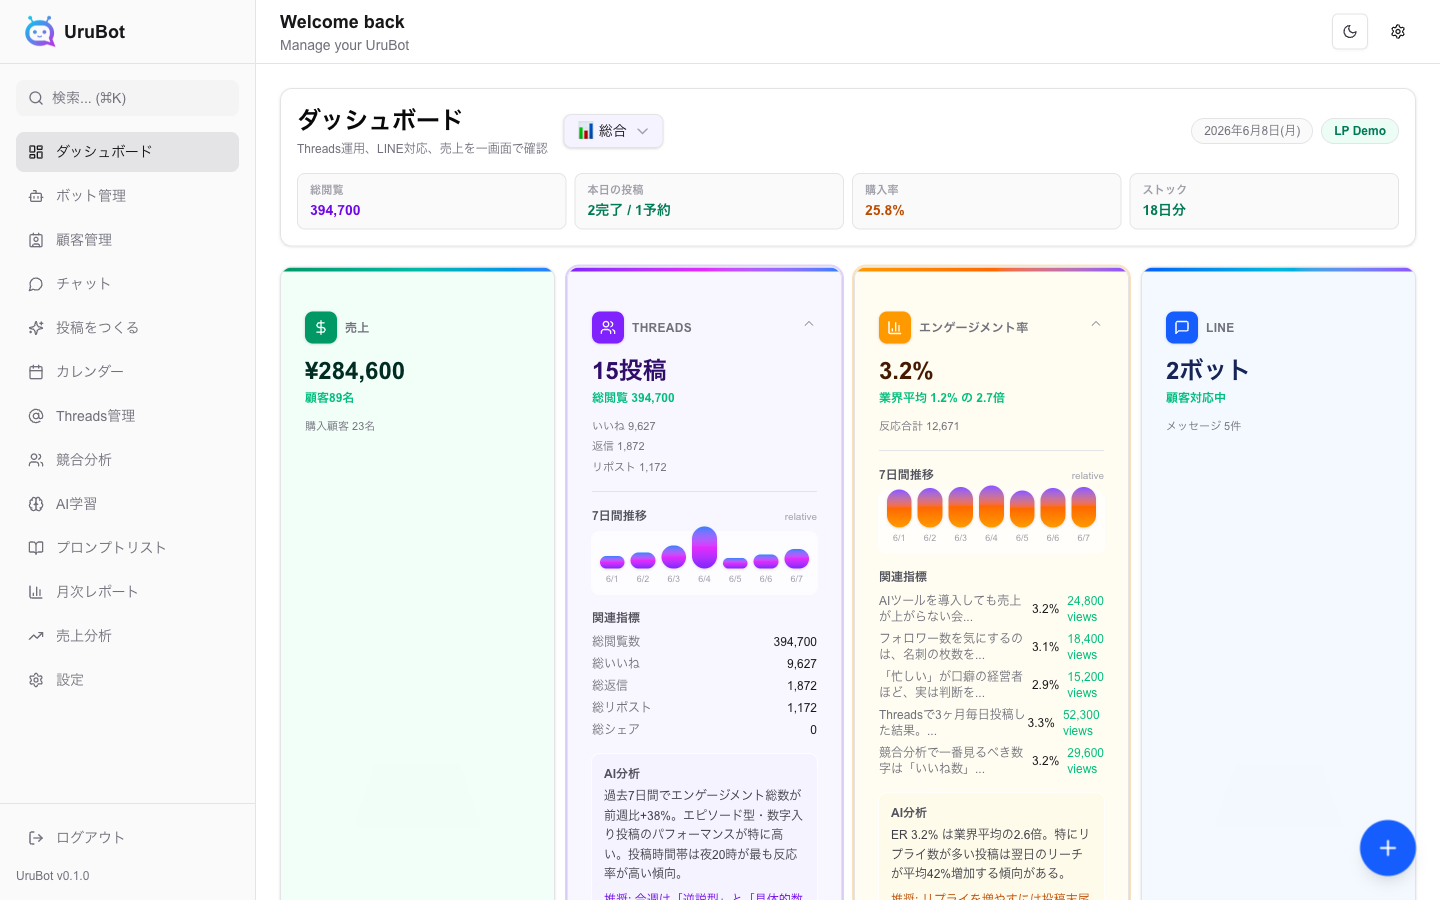
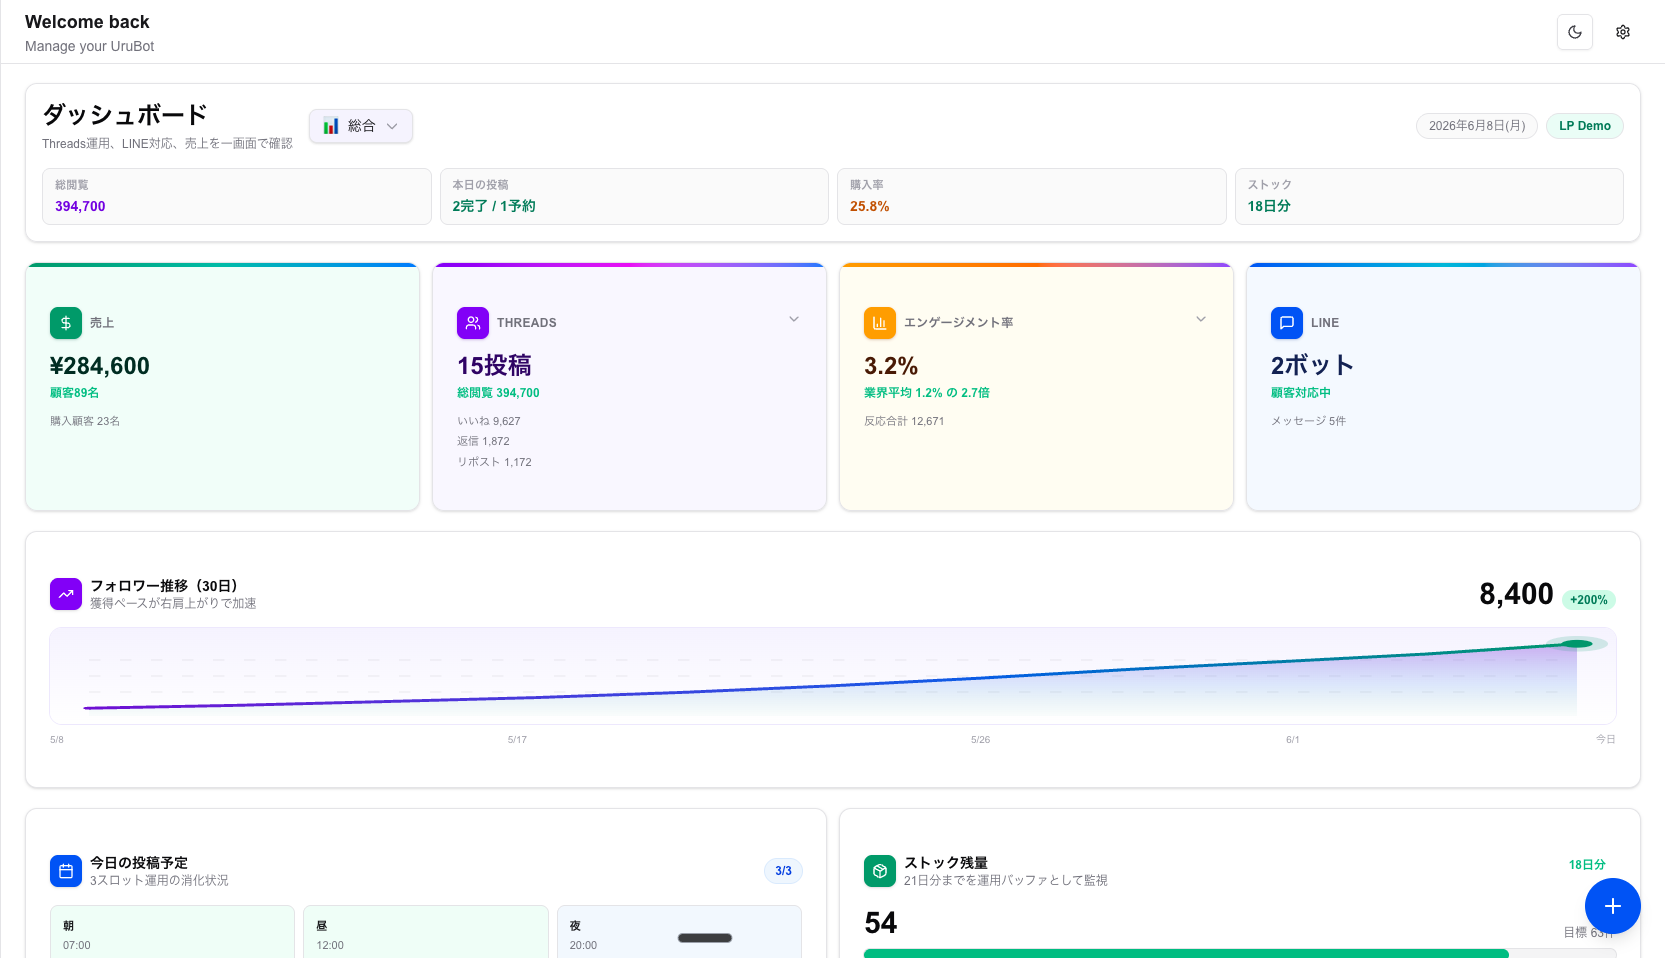
feat(lp): swap hero dashboard screenshot (cleaner, no sidebar)
New shot (1665x958): content-only view with collapsed KPI cards and
prominent follower chart. Updated Image dims to match aspect ratio.

diff --git a/app/page.tsx b/app/page.tsx
@@ -127,8 +127,8 @@ export default function LandingPage() {
             <Image
               src="/shot-dashboard.png"
               alt="UruBot ダッシュボード画面"
-              width={1440}
-              height={900}
+              width={1665}
+              height={958}
               priority
               className="w-full"
             />
